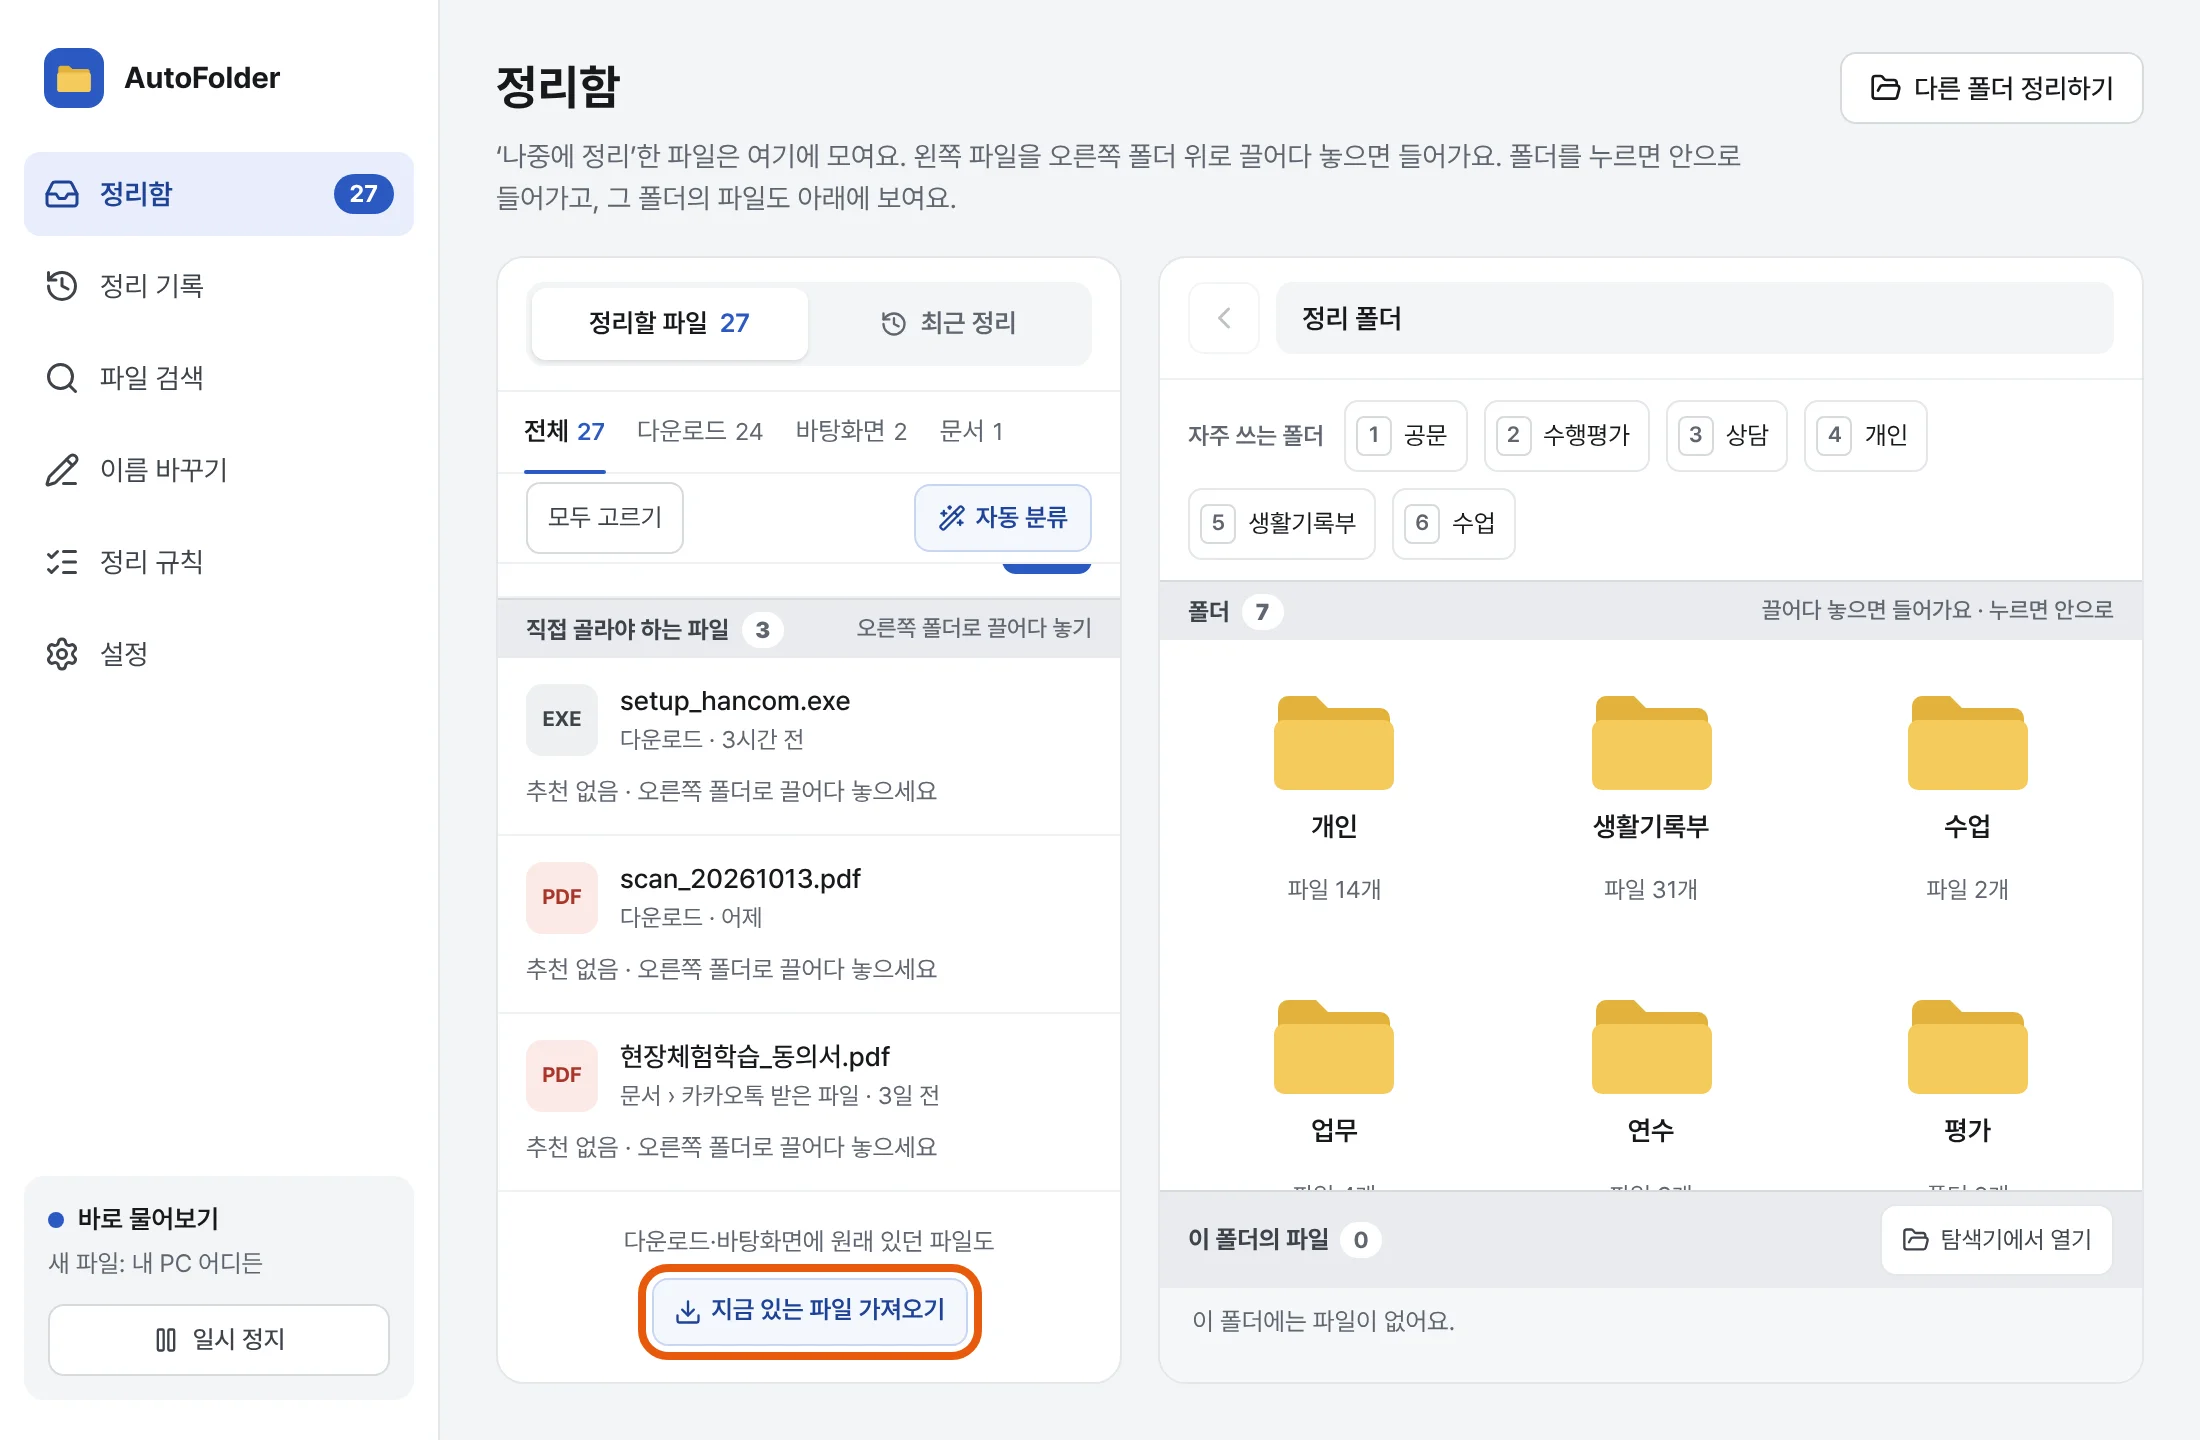
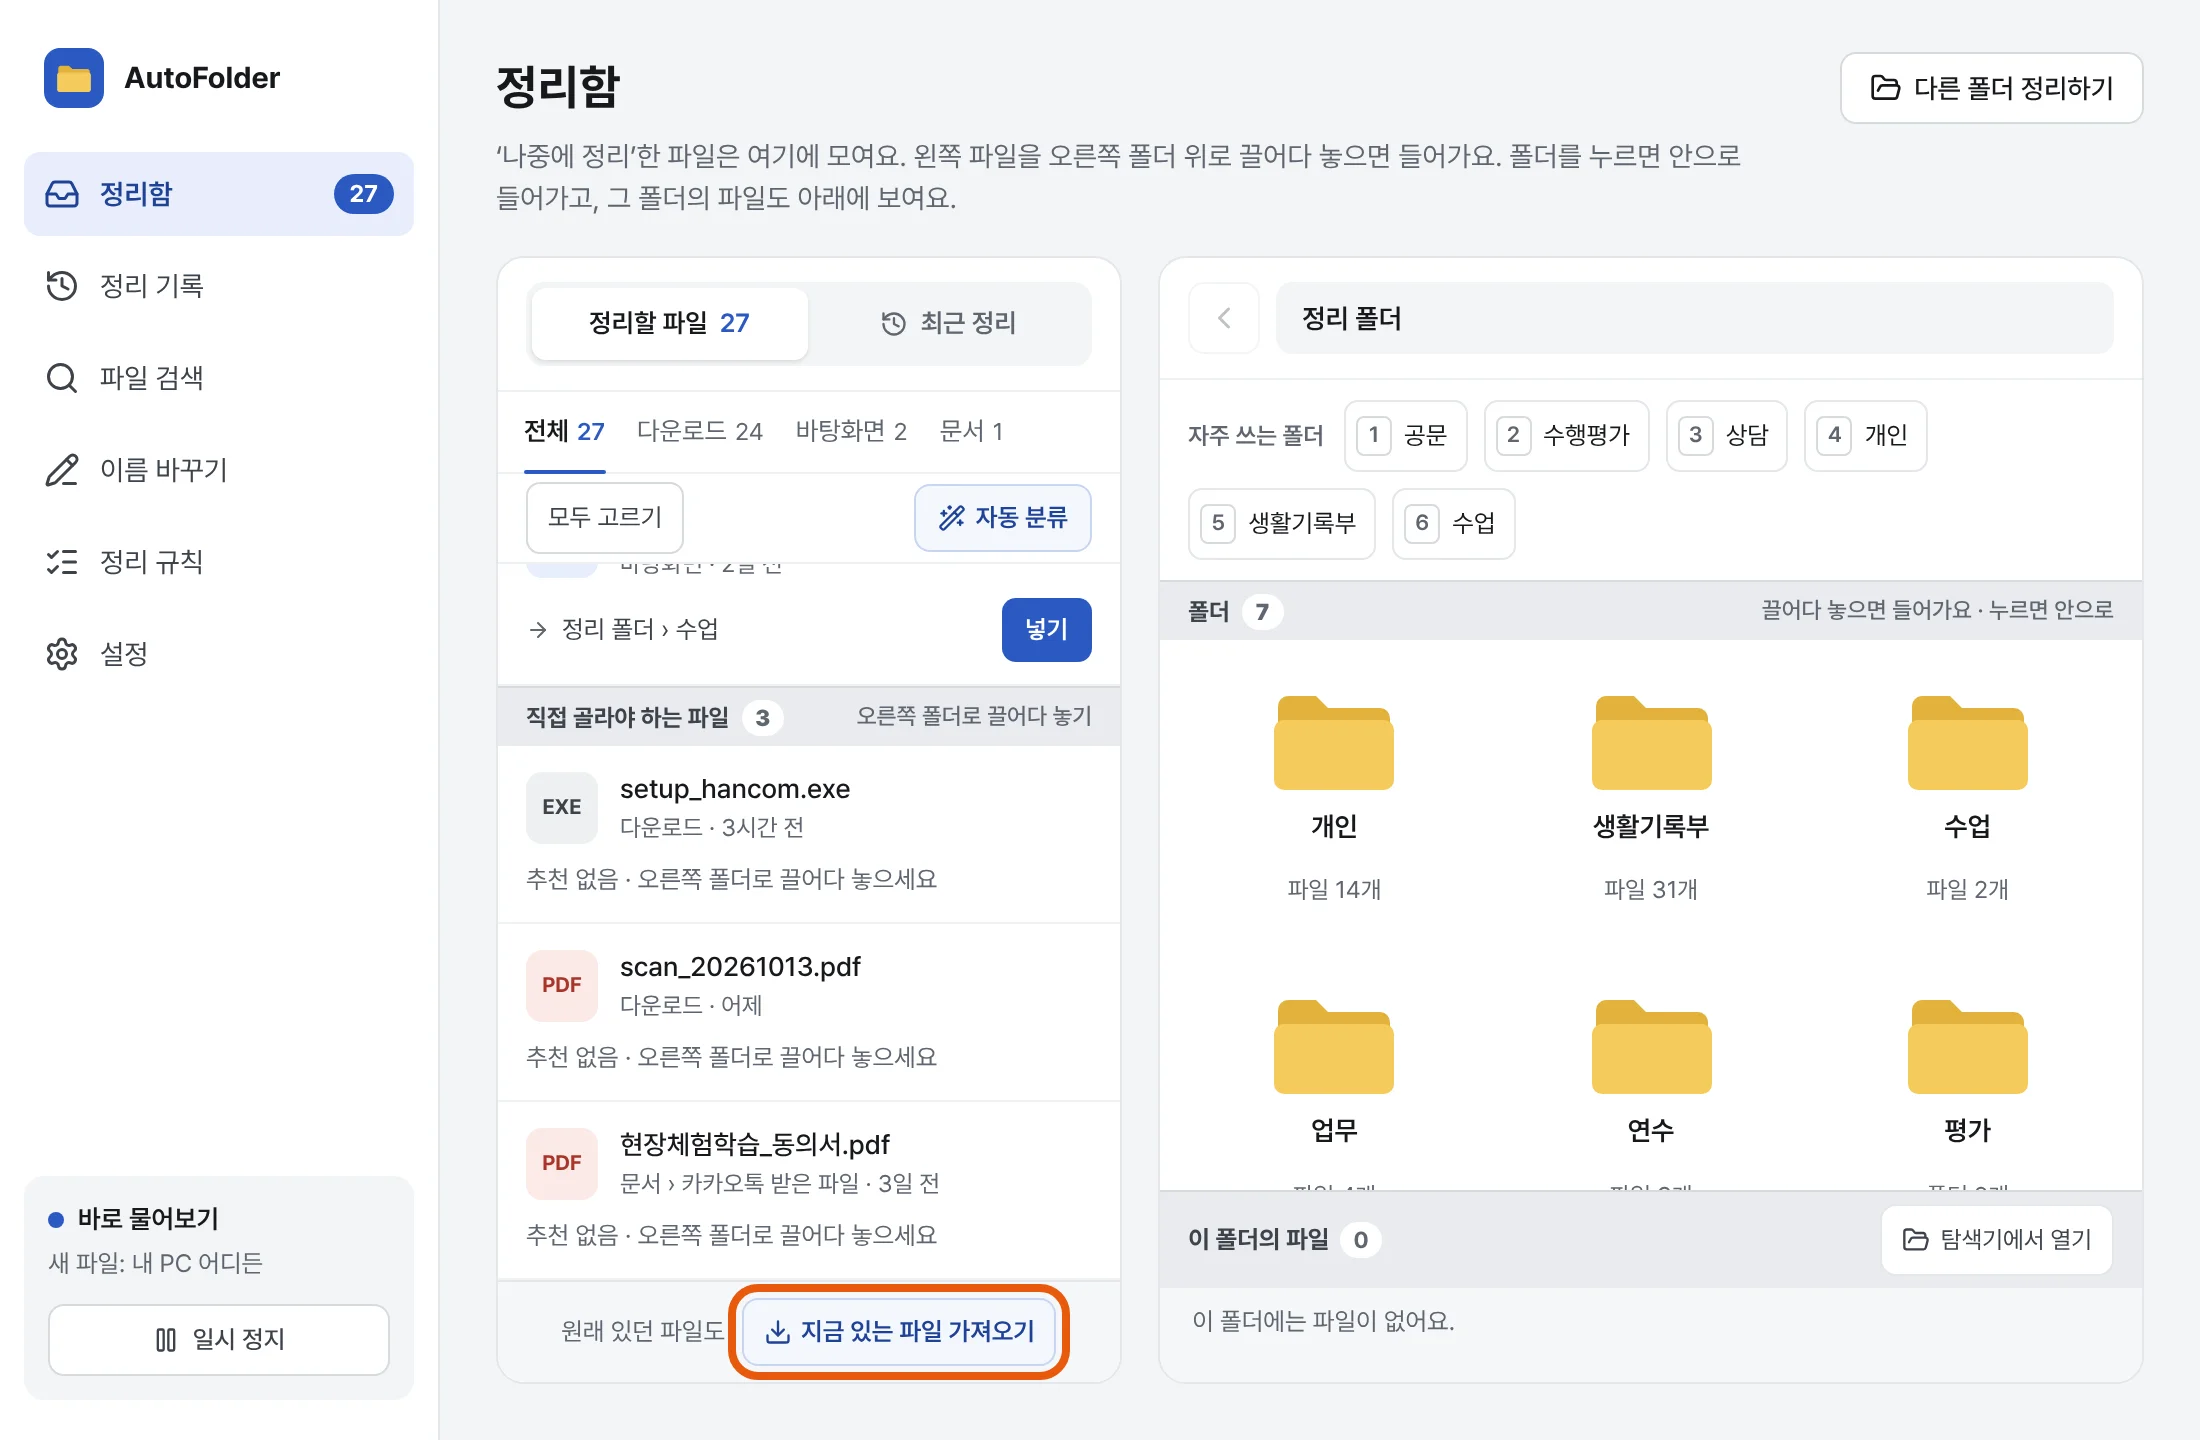
정리함: '지금 있는 파일 가져오기'를 맨 아래 한 줄에 고정 + 새 폴더 입력 줄 여백 (#36)
사용자 보고:
- 정리함 파일이 많으면 '지금 있는 파일 가져오기'가 목록 끝에 있어 내려야만 보였다
  → 목록 밖 파일 칸 맨 아래에 고정, 목록만 그 위에서 내려간다. 두 줄로 자리를 많이 차지해서
  (사용자 지적) 글을 "원래 있던 파일도"로 줄여 버튼과 한 줄(좁으면 글이 말줄임, 버튼은 그대로).
- 폴더 칸에서 새 폴더를 누르면 입력 줄이 아래 '폴더' 띠와 붙어 겹쳐 보였다
  → 입력 줄 위아래 같은 여백(12px) + 옅은 구분선.
- SPEC 3-2, 설명서 그림 다시 찍음.

Claude-Session: https://claude.ai/code/session_01TC8Pbu5bQjk9y5TqXsKHr4

Changed region(s): [[0.2164, 0.375, 0.4945, 0.9688]]

diff --git a/src/components/InboxFileList.tsx b/src/components/InboxFileList.tsx
@@ -207,6 +207,7 @@ export default function InboxFileList(props: Props) {
       {showRecent ? (
         props.recent
       ) : visible.length > 0 ? (
+        <>
         <ul className="ifiles__list">
           {groups.map((g) =>
             g.items.length === 0 ? null : (
@@ -232,12 +233,14 @@ export default function InboxFileList(props: Props) {
               </Fragment>
             ),
           )}
-          {/* 처음에 한 번쯤 쓰는 버튼이라 목록 맨 아래에 둔다(목록이 비면 가운데에 크게) */}
-          <li className="ifiles__more" role="presentation">
-            <span>다운로드·바탕화면에 원래 있던 파일도</span>
-            {importButton}
-          </li>
         </ul>
+        {/* 처음에 한 번쯤 쓰는 버튼이라 맨 아래 한 줄에 고정한다(목록만 그 위에서 내려감, 사용자 요청).
+            목록이 비면 가운데에 크게. */}
+        <div className="ifiles__more">
+          <span className="ifiles__more-text">원래 있던 파일도</span>
+          {importButton}
+        </div>
+        </>
       ) : (
         <div className="ifiles__empty">
           <div className="ifiles__empty-title">정리함이 비었어요</div>

diff --git a/src/components/InboxFileList.css b/src/components/InboxFileList.css
@@ -169,6 +169,7 @@
 }
 
 .ifiles__import {
+  white-space: nowrap;
   display: inline-flex;
   align-items: center;
   gap: 5px;
@@ -396,16 +397,26 @@
 }
 
 /* 목록 맨 아래: 원래 있던 파일 가져오기 */
+/* 파일 칸 맨 아래 한 줄(목록 밖, 늘 보임): 원래 있던 파일도 [지금 있는 파일 가져오기] */
 .ifiles__more {
+  flex-shrink: 0;
   display: flex;
-  flex-wrap: wrap;
+  flex-wrap: nowrap;
   align-items: center;
   justify-content: center;
-  gap: 8px 10px;
-  padding: 16px 14px 18px;
+  gap: 8px;
+  padding: 8px 12px;
+  border-top: 1px solid var(--color-line);
+  background: var(--color-surface-sub);
   color: var(--color-text-sub);
   font-size: 12.5px;
-  text-align: center;
+}
+
+.ifiles__more-text {
+  min-width: 0;
+  overflow: hidden;
+  text-overflow: ellipsis;
+  white-space: nowrap;
 }
 
 .ifiles__empty {

diff --git a/src/components/FolderPane.css b/src/components/FolderPane.css
@@ -144,8 +144,10 @@
   text-align: center;
 }
 
+/* 새 폴더 이름 입력 줄: 아래 '폴더' 띠와 붙어 겹쳐 보이지 않게 위아래 같은 여백 + 구분선(사용자 보고) */
 .ifold__new {
-  padding: 12px 14px 0;
+  padding: 12px 14px;
+  border-bottom: 1px solid var(--color-line-soft);
 }
 
 .ifold__new input {

diff --git a/docs/SPEC.md b/docs/SPEC.md
@@ -76,7 +76,7 @@
   - **이 폴더 다시 나누기**: 정리 폴더 안 폴더의 ⋯ 메뉴. 이름으로 정해지는 파일만 옮기고 형식만으로는 옮기지 않는다('개인'의 PDF가 '형식별'로 빠지지 않게). 지금 있는 폴더가 곧 넣을 곳이면 그대로.
   - **원래 폴더 이름도 단서**(사용자 요청): 파일 이름으로 모르거나 형식으로만 정해진 파일은 원래 있던 폴더 이름(그 파일의 폴더 → 고른 폴더 순)으로 ②처럼 찾는다(예: '생기부' 폴더의 김민찬.pdf → 자동 분류 단어 '생기부' → 생활기록부). 까닭은 "원래 폴더 ‘생기부’".
   - **새 폴더 제안**: 넣을 곳이 없거나 형식으로만 정해진 파일 중 이름에 같은 낱말(한글 2자·영어 3자 이상, 숫자·기호에서 끊음, '최종·사본·스캔' 같은 말 제외)이 든 파일이 3개 이상이면 그 낱말로 새 폴더 카드("새 폴더" 표시, 까닭 "이름의 ‘계약서’ 3개 · 새 폴더 제안"). 많은 낱말부터(같으면 긴 낱말), 한 파일은 한 폴더에만, 12개까지. 자리: 다시 나누는 폴더 안 / 다른 폴더면 정리 폴더 바로 아래(집·개인은 파일 종류가 같으면 그 종류 폴더 안, 예: 문서 › 계약서). [나누기]를 누를 때만 폴더를 만든다.
-- 파일 목록 맨 아래(목록이 비면 가운데에 크게) [지금 있는 파일 가져오기]: 지켜볼 폴더에 원래 있던 파일(시작 전부터 있던 파일)을 정리함으로 불러온다. 이미 정리함에 있는 파일은 그대로.
+- 파일 칸 맨 아래에 고정된 한 줄 "원래 있던 파일도 [지금 있는 파일 가져오기]"(목록만 그 위에서 내려감 — 예전에는 목록 끝에 있어 파일이 많으면 내려야 보였다(사용자 보고). 좁으면 글이 "원래 있…"으로 줄고 버튼은 한 줄. 목록이 비면 가운데에 크게): 지켜볼 폴더에 원래 있던 파일(시작 전부터 있던 파일)을 정리함으로 불러온다. 이미 정리함에 있는 파일은 그대로.
 - 넣는 방법: 폴더 아이콘 위로 끌어다 놓기 · 골라서 폴더 아래 "여기에 넣기"(폴더 안에서는 "이 폴더에 넣기") · 골라서 숫자 키.
   - 고르기는 자동 분류 창과 같다(사용자 요청: 정리함 왼쪽 목록과 이 폴더의 파일 모두). 체크 상자 없이 누르면 골라지고(파란색) 다시 누르면 풀리며, Shift를 누른 채 누르면 마지막으로 누른 파일부터 거기까지 모두 고른다. 고른 파일 하나를 끌면 고른 것이 다 같이 옮겨진다("… 외 2개"). 왼쪽 목록 위 줄: 고르기 전 [모두 고르기] [자동 분류], 고른 뒤 "n개 고름 · 숫자 키로도 넣어요"(좁아도 한 줄, 예전 "‘여기에 넣기’나 숫자 키로 넣어요"는 단어 중간에서 꺾였음 — 사용자 보고) [휴지통] [고르기 풀기].
   - 끌 때: 끌리는 파일 표시는 마우스 오른쪽 아래에 붙어 다니고, 놓을 곳은 **마우스 아래에 있는 폴더**다(자동 분류 창도 같음). 예전에는 긴 줄의 오른쪽을 잡고 끌면 표시가 마우스에서 떨어지고 표시가 겹친 다른 폴더에 들어갔다(사용자 보고). `src/lib/dnd.ts`.
